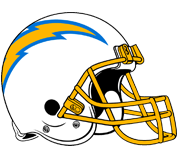
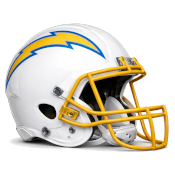
Update README example names, refresh LAC/PHI helmets, add migrate.py

diff --git a/migrate.py b/migrate.py
@@ -1,0 +1,131 @@
+#!/usr/bin/env python3
+"""
+Migrate data from old MongoDB export to the new PostgreSQL schema.
+Run from the project root:  python3 migrate.py
+"""
+
+import bson
+import psycopg2
+from datetime import datetime
+import os
+
+BSON_DIR = '/home/brett/Documents/maddenrecords/MaddenRecords'
+
+# Old TeamLogo abbr -> new team id (handles relocated franchises)
+TEAM_ABBR_MAP = {
+    'ARI': 'ari', 'ATL': 'atl', 'BAL': 'bal', 'BUF': 'buf',
+    'CAR': 'car', 'CHI': 'chi', 'CIN': 'cin', 'CLE': 'cle',
+    'DAL': 'dal', 'DEN': 'den', 'DET': 'det', 'GB':  'gb',
+    'HOU': 'hou', 'IND': 'ind', 'JAC': 'jax',  # JAC -> JAX
+    'KC':  'kc',  'MIA': 'mia', 'MIN': 'min',
+    'NE':  'ne',  'NO':  'no',  'NYG': 'nyg', 'NYJ': 'nyj',
+    'PHI': 'phi', 'PIT': 'pit', 'SEA': 'sea', 'SF':  'sf',
+    'STL': 'lar',  # Rams: St. Louis -> Los Angeles
+    'OAK': 'lv',   # Raiders: Oakland -> Las Vegas
+    'SD':  'lac',  # Chargers: San Diego -> Los Angeles
+    'TB':  'tb',  'TEN': 'ten', 'WAS': 'was',
+}
+
+def load_bson(name):
+    with open(f'{BSON_DIR}/{name}.bson', 'rb') as f:
+        return bson.decode_all(f.read())
+
+def parse_date(date_str, fallback_ts):
+    """Parse 'M/D/YYYY' date string; fall back to Unix timestamp."""
+    try:
+        return datetime.strptime(date_str, '%m/%d/%Y').date()
+    except Exception:
+        try:
+            return datetime.utcfromtimestamp(fallback_ts).date()
+        except Exception:
+            return datetime.today().date()
+
+def main():
+    conn = psycopg2.connect(
+        host=os.environ.get('DB_HOST', 'localhost'),
+        port=int(os.environ.get('DB_PORT', 5432)),
+        dbname=os.environ.get('DB_NAME', 'madden'),
+        user=os.environ.get('DB_USER', 'madden'),
+        password=os.environ.get('DB_PASSWORD', 'madden'),
+    )
+    cur = conn.cursor()
+
+    # ── Load source data ────────────────────────────────────────────────────
+    old_players = {p['_id']: p for p in load_bson('players')}
+    old_teams   = {t['_id']: t for t in load_bson('teams')}
+    old_games   = load_bson('games')
+
+    # Build old-team-id -> new-team-id lookup
+    team_id_map = {}
+    for t in old_teams.values():
+        abbr = t.get('TeamLogo', '')
+        new_id = TEAM_ABBR_MAP.get(abbr)
+        if new_id:
+            team_id_map[t['_id']] = new_id
+
+    print(f'Players: {len(old_players)}  |  Games: {len(old_games)}  |  Teams mapped: {len(team_id_map)}')
+
+    # ── Check existing data ──────────────────────────────────────────────────
+    cur.execute('SELECT COUNT(*) FROM games')
+    existing_games = cur.fetchone()[0]
+    if existing_games > 0:
+        print(f'\nWARNING: The database already has {existing_games} game(s).')
+        resp = input('Continue and ADD to existing data? [y/N] ').strip().lower()
+        if resp != 'y':
+            print('Aborted.')
+            return
+
+    # ── Insert players ───────────────────────────────────────────────────────
+    old_to_new_player = {}  # old mongo _id -> new postgres player id
+    for old_id, p in old_players.items():
+        name = f"{p['FName']} {p['LName']}"
+        cur.execute(
+            'INSERT INTO players (name) VALUES (%s) ON CONFLICT (name) DO UPDATE SET name=EXCLUDED.name RETURNING id',
+            (name,)
+        )
+        new_id = cur.fetchone()[0]
+        old_to_new_player[old_id] = new_id
+        print(f'  Player: {name} -> id={new_id}')
+
+    # ── Insert games ─────────────────────────────────────────────────────────
+    skipped = 0
+    inserted = 0
+
+    for g in old_games:
+        home_player_old = g.get('HomePlayer')
+        away_player_old = g.get('AwayPlayer')
+        home_team_old   = g.get('HomeTeam')
+        away_team_old   = g.get('AwayTeam')
+
+        home_player_id = old_to_new_player.get(home_player_old)
+        away_player_id = old_to_new_player.get(away_player_old)
+        home_team_id   = team_id_map.get(home_team_old)
+        away_team_id   = team_id_map.get(away_team_old)
+
+        if not all([home_player_id, away_player_id, home_team_id, away_team_id]):
+            skipped += 1
+            continue
+
+        game_date = parse_date(g.get('GameDate', ''), g.get('GameTime', 0))
+
+        cur.execute('INSERT INTO games (date) VALUES (%s) RETURNING id', (game_date,))
+        game_id = cur.fetchone()[0]
+
+        cur.execute(
+            'INSERT INTO game_entries (game_id, player_id, team_id, score, is_home) VALUES (%s,%s,%s,%s,%s)',
+            (game_id, home_player_id, home_team_id, g['HomeScore'], True)
+        )
+        cur.execute(
+            'INSERT INTO game_entries (game_id, player_id, team_id, score, is_home) VALUES (%s,%s,%s,%s,%s)',
+            (game_id, away_player_id, away_team_id, g['AwayScore'], False)
+        )
+        inserted += 1
+
+    conn.commit()
+    cur.close()
+    conn.close()
+
+    print(f'\nDone! Inserted {inserted} games, skipped {skipped}.')
+
+if __name__ == '__main__':
+    main()

diff --git a/README.md b/README.md
@@ -142,14 +142,14 @@ The import file is a simple JSON structure. You can also create one manually:
 ```json
 {
   "players": [
-    { "name": "Brett Johnson" },
-    { "name": "Scott Johnson" }
+    { "name": "Player1" },
+    { "name": "Player2" }
   ],
   "games": [
     {
       "date": "2019-04-29",
-      "home": { "playerName": "Brett Johnson", "teamId": "min", "score": 16 },
-      "away": { "playerName": "Scott Johnson", "teamId": "nyj", "score": 14 }
+      "home": { "playerName": "Player1", "teamId": "min", "score": 16 },
+      "away": { "playerName": "Player2", "teamId": "nyj", "score": 14 }
     }
   ]
 }
